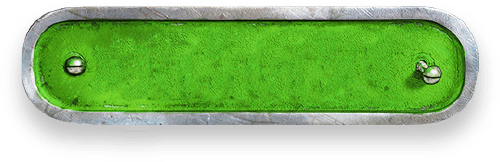
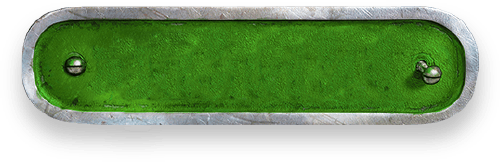
new menu

diff --git a/src/menu/Button.java b/src/menu/Button.java
@@ -12,6 +12,7 @@ import static org.lwjgl.opengl.GL11.*;
 import static org.lwjgl.opengl.GL12.*;
 
 import org.lwjgl.BufferUtils;
+import org.lwjgl.input.Mouse;
 
 import util.PropertiesManager;
 
@@ -24,11 +25,17 @@ public class Button {
     private int texHet;
     private int imgIdx;
     private int texIdx;
+    private int imgIdxPressed;
+    private int texIdxPressed;
+    
+    private static boolean released = true;
+    
     
     private boolean isClicked = false;
+    private int hasClicked = 0;
 
 
-    public void loadButton(String name, int x, int y, int wid, int het) throws IOException
+    public void loadButton(String name, String pressed, int x, int y, int wid, int het) throws IOException
     {
     	posX = x;
     	posY = y;
@@ -69,12 +76,7 @@ public class Button {
 	
 	    glTexImage2D(GL_TEXTURE_2D, 0, GL_RGBA8, width, height, 0, GL_RGBA, GL_UNSIGNED_BYTE, buffer);
 	    
-	    initialize();
-    }
-
-    public void initialize()
-    {	       
-    	texIdx = glGenLists(1);
+	    texIdx = glGenLists(1);
 		glNewList(texIdx, GL_COMPILE);
 		{
 			glBindTexture(GL_TEXTURE_2D, texIdx);
@@ -93,20 +95,125 @@ public class Button {
 		}
 	    glEndList();
 	    
-       	
+	    loadButtonPressed(pressed);
+    }
+    
+    public void loadButtonPressed(String name) throws IOException
+    {
+    	BufferedImage img = ImageIO.read(new File("res/"+ name +".png"));
+    	int width = img.getWidth();
+    	int height = img.getHeight();
+    	int[] pixels = new int[width * height];
+    	img.getRGB(0, 0, width, height, pixels, 0, width);
+		
+		ByteBuffer buffer = BufferUtils.createByteBuffer(width * height * 4); 
+		  
+		for(int j = 0; j < height; j++)
+		{
+		    for(int i = 0; i < width; i++)
+		    {
+		        int pixel = pixels[j * width + i];
+		        buffer.put((byte) ((pixel >> 16) & 0xFF));
+		        buffer.put((byte) ((pixel >> 8) & 0xFF));
+		        buffer.put((byte) (pixel & 0xFF)); 
+		        buffer.put((byte) ((pixel >> 24) & 0xFF)); 
+		    }
+		}
+		
+		buffer.flip();
+		imgIdxPressed = glGenTextures();
+		
+		glTexEnvi(GL_TEXTURE_ENV, GL_TEXTURE_ENV_MODE, GL_REPLACE);
+		glBindTexture(GL_TEXTURE_2D, imgIdxPressed);
+		
+		glTexParameteri(GL_TEXTURE_2D, GL_TEXTURE_WRAP_S, GL_CLAMP_TO_EDGE);
+	    glTexParameteri(GL_TEXTURE_2D, GL_TEXTURE_WRAP_T, GL_CLAMP_TO_EDGE);
+
+	    glTexParameteri(GL_TEXTURE_2D, GL_TEXTURE_MIN_FILTER, GL_NEAREST);
+	    glTexParameteri(GL_TEXTURE_2D, GL_TEXTURE_MAG_FILTER, GL_NEAREST);
+	
+	    glTexImage2D(GL_TEXTURE_2D, 0, GL_RGBA8, width, height, 0, GL_RGBA, GL_UNSIGNED_BYTE, buffer);
+	    
+	    texIdxPressed = glGenLists(1);
+		glNewList(texIdxPressed, GL_COMPILE);
+		{
+			glBindTexture(GL_TEXTURE_2D, texIdxPressed);
+			glBegin(GL_QUADS);
+			{
+				glTexCoord2f(0, 0);
+	            glVertex2i(posX, posY);
+	            glTexCoord2f(0,1);
+	            glVertex2i(posX, posY + texHet);
+	            glTexCoord2f(1,1);
+	            glVertex2i(posX + texWid, posY + texHet);
+	            glTexCoord2f(1,0);
+	            glVertex2i(posX + texWid, posY);
+			}
+		    glEnd();
+		}
+	    glEndList();
+    }
+
+    
+    public boolean mouseWithinBound()
+    {
+    	if(Mouse.getX() > posX && Mouse.getX() < posX + texWid)
+    	{
+    		int mouseY = PropertiesManager.getDefaultHeight() - Mouse.getY();
+    		if(mouseY > posY && mouseY < posY + texHet)
+    		{
+    			return true;
+    		}
+    	}
+    	return false;
     }
     
     public void draw()
-	{
+	{	
     	glMatrixMode(GL_PROJECTION);
 		
 		glLoadIdentity();
         glOrtho(0, PropertiesManager.getDefaultWidth(), PropertiesManager.getDefaultHeight(), 0, 1, -1);
         glMatrixMode(GL_MODELVIEW);
         
-        glEnable(GL_TEXTURE_2D);   
-		glCallList(texIdx);
+        glEnable(GL_TEXTURE_2D);
+        
+        if(Mouse.isButtonDown(0) && (isClicked || mouseWithinBound()))
+        {
+        	if(released || isClicked)
+        	{
+	    		isClicked = true;
+	    		released = false;
+	    		hasClicked = 0;
+	    		glCallList(texIdxPressed);
+        	}
+        	else
+        		glCallList(texIdx);
+    		
+        }
+    	else
+    	{
+    		if(isClicked)
+    		{
+    			isClicked = false;
+    			released = true;
+    			hasClicked++;
+    		}
+    		else
+    		{
+    			if(hasClicked == 1 && mouseWithinBound())
+    				hasClicked = 2;
+    			else
+    				hasClicked = 0;
+    		}
+    		glCallList(texIdx);
+    	}
+		
 		glDisable(GL_TEXTURE_2D);
+	}
+
+	public int hasClicked() {
+		return hasClicked;
 	}
 
 }

diff --git a/src/main/Main.java b/src/main/Main.java
@@ -155,9 +155,9 @@ public class Main {
     	mainMenu.loadMenu("mainMenu", 0, 0, window.getWidth(), window.getHeight());
     	title.loadMenu("title", 232, 50, 496, 172);
     	
-    	playGame.loadButton("button1", 355, 270, 250, 90);
-    	museMusic.loadButton("button1", 355, 350, 250, 90);
-    	quitGame.loadButton("button1", 355, 430, 250, 90);
+    	playGame.loadButton("button1", "button2", 355, 270, 250, 90);
+    	museMusic.loadButton("button1", "button2", 355, 350, 250, 90);
+    	quitGame.loadButton("button1", "button2", 355, 430, 250, 90);
     	
     	/*skybox.loadBackground("day");
     	terrain.loadTerrain("heightMap");
@@ -433,9 +433,14 @@ public class Main {
     	case MAIN_MENU:   			
     		mainMenu.draw();
     		title.draw();
+    		
     		playGame.draw();
     		museMusic.draw();
     		quitGame.draw();
+    		if(playGame.hasClicked() == 2)
+    			state = State.GAME;
+    		if(quitGame.hasClicked() == 2)
+    			cleanup();
     		break;
     	case GAME:
     		//reinitGL();

diff --git a/src/menu/Menu.java b/src/menu/Menu.java
@@ -70,11 +70,6 @@ public class Menu {
 	
 	    glTexImage2D(GL_TEXTURE_2D, 0, GL_RGBA8, width, height, 0, GL_RGBA, GL_UNSIGNED_BYTE, buffer);
 	    
-	    initialize();
-	}
-	
-	public void initialize()
-	{
 		texIdx = glGenLists(1);
 		glNewList(texIdx, GL_COMPILE);
 		{
@@ -94,6 +89,7 @@ public class Menu {
 		}
 	    glEndList();
 	}
+	
 	
 	public void draw()
 	{
